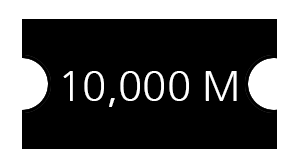
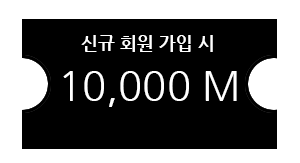
signup 페이지 - 쿠폰이미지, 마진 수정

Changed region(s): [[0.27, 0.2147, 0.72, 0.3374]]

diff --git a/html/signup/signup.html b/html/signup/signup.html
@@ -138,8 +138,8 @@
                     <div class="coupon coupon3"></div>
                     <div class="coupon_bottom_text">
                         <span class="coupontext t1">가입축하 마일리지 지급</span>
-                        <span class="coupontext t2">첫구매 마일리지</span>
-                        <div class="coupontext t3">신규회원 쿠폰</div>
+                        <span class="coupontext t2">신규회원 쿠폰</span>
+                        <span class="coupontext t3">첫 구매 감사 할인 쿠폰</span>
 
                     </div>
                 </div>

diff --git a/css/signup.css b/css/signup.css
@@ -20,7 +20,7 @@ margin: 0px auto;
     margin-bottom: 20px;
     font-size: 3em;
     color: black;
-    padding-top: 20px;
+    padding-top: 10px;
 }
 
 
@@ -93,9 +93,7 @@ margin: 0px auto;
 /* ====쿠폰 하단 텍스트 변경==== */
 
 .t3 {
-    left: 200px;
-    color: black; 
-    background-color: white;
+    left: 185px;
 }
 
 
